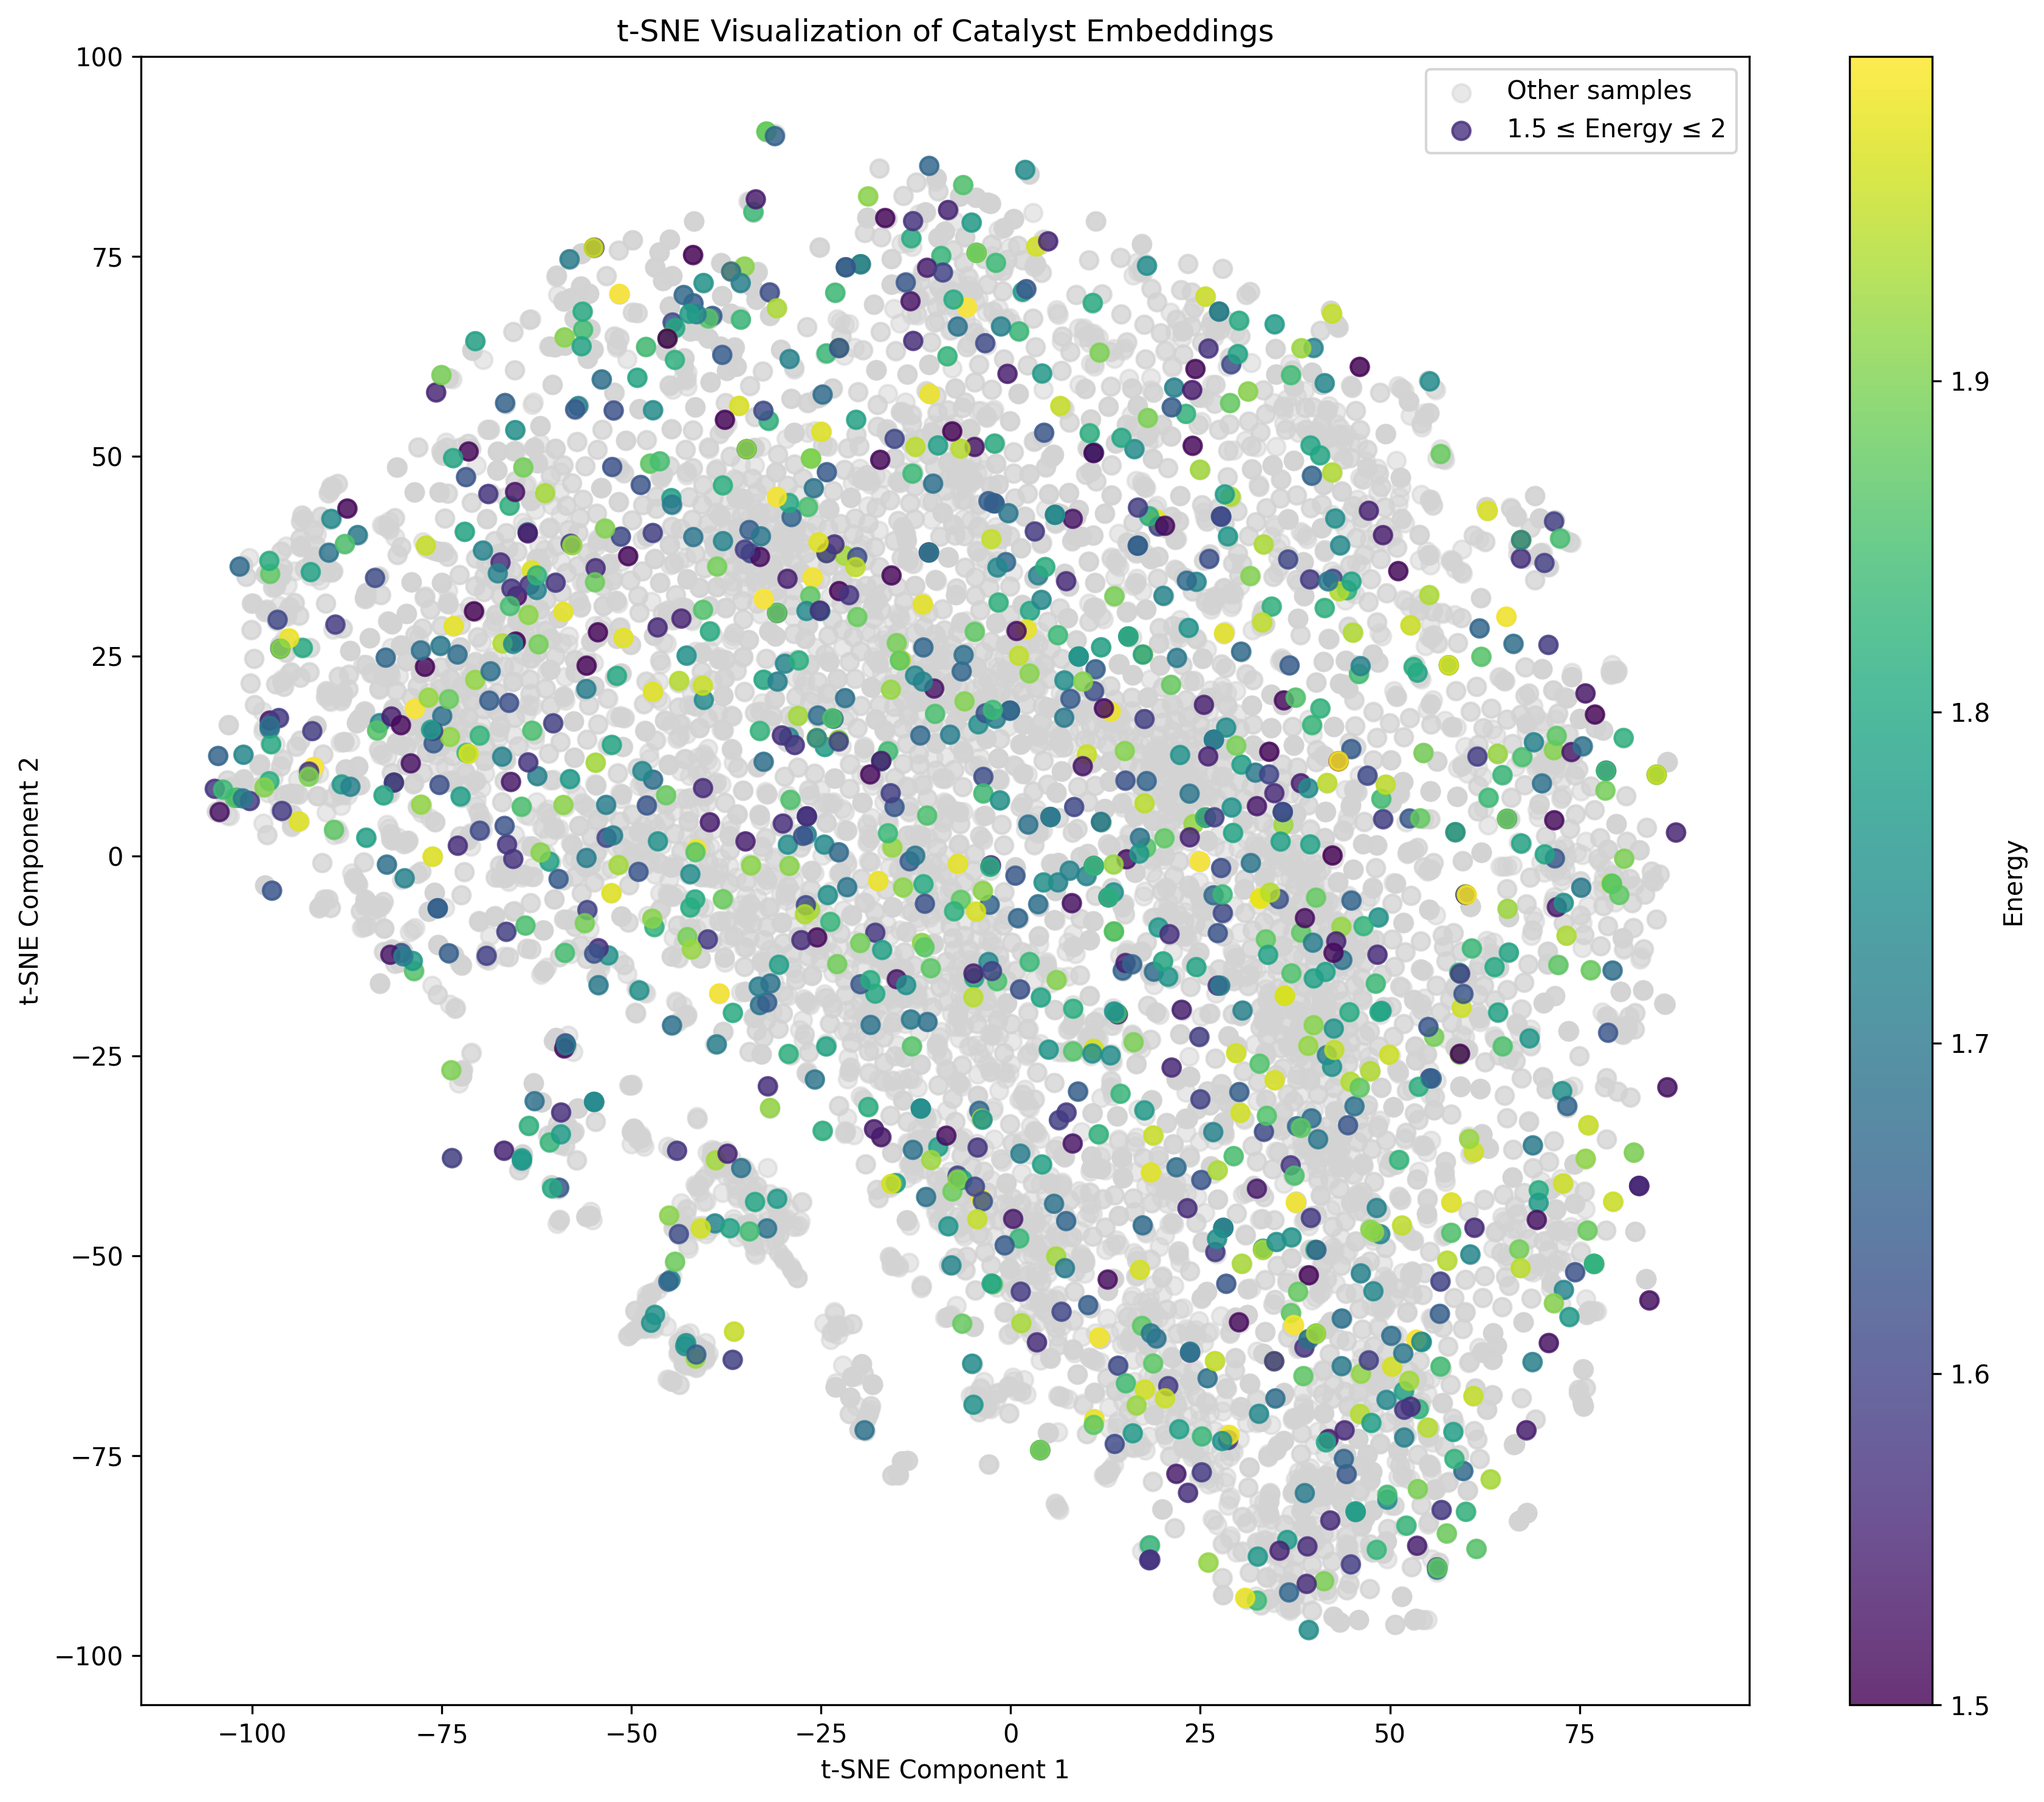
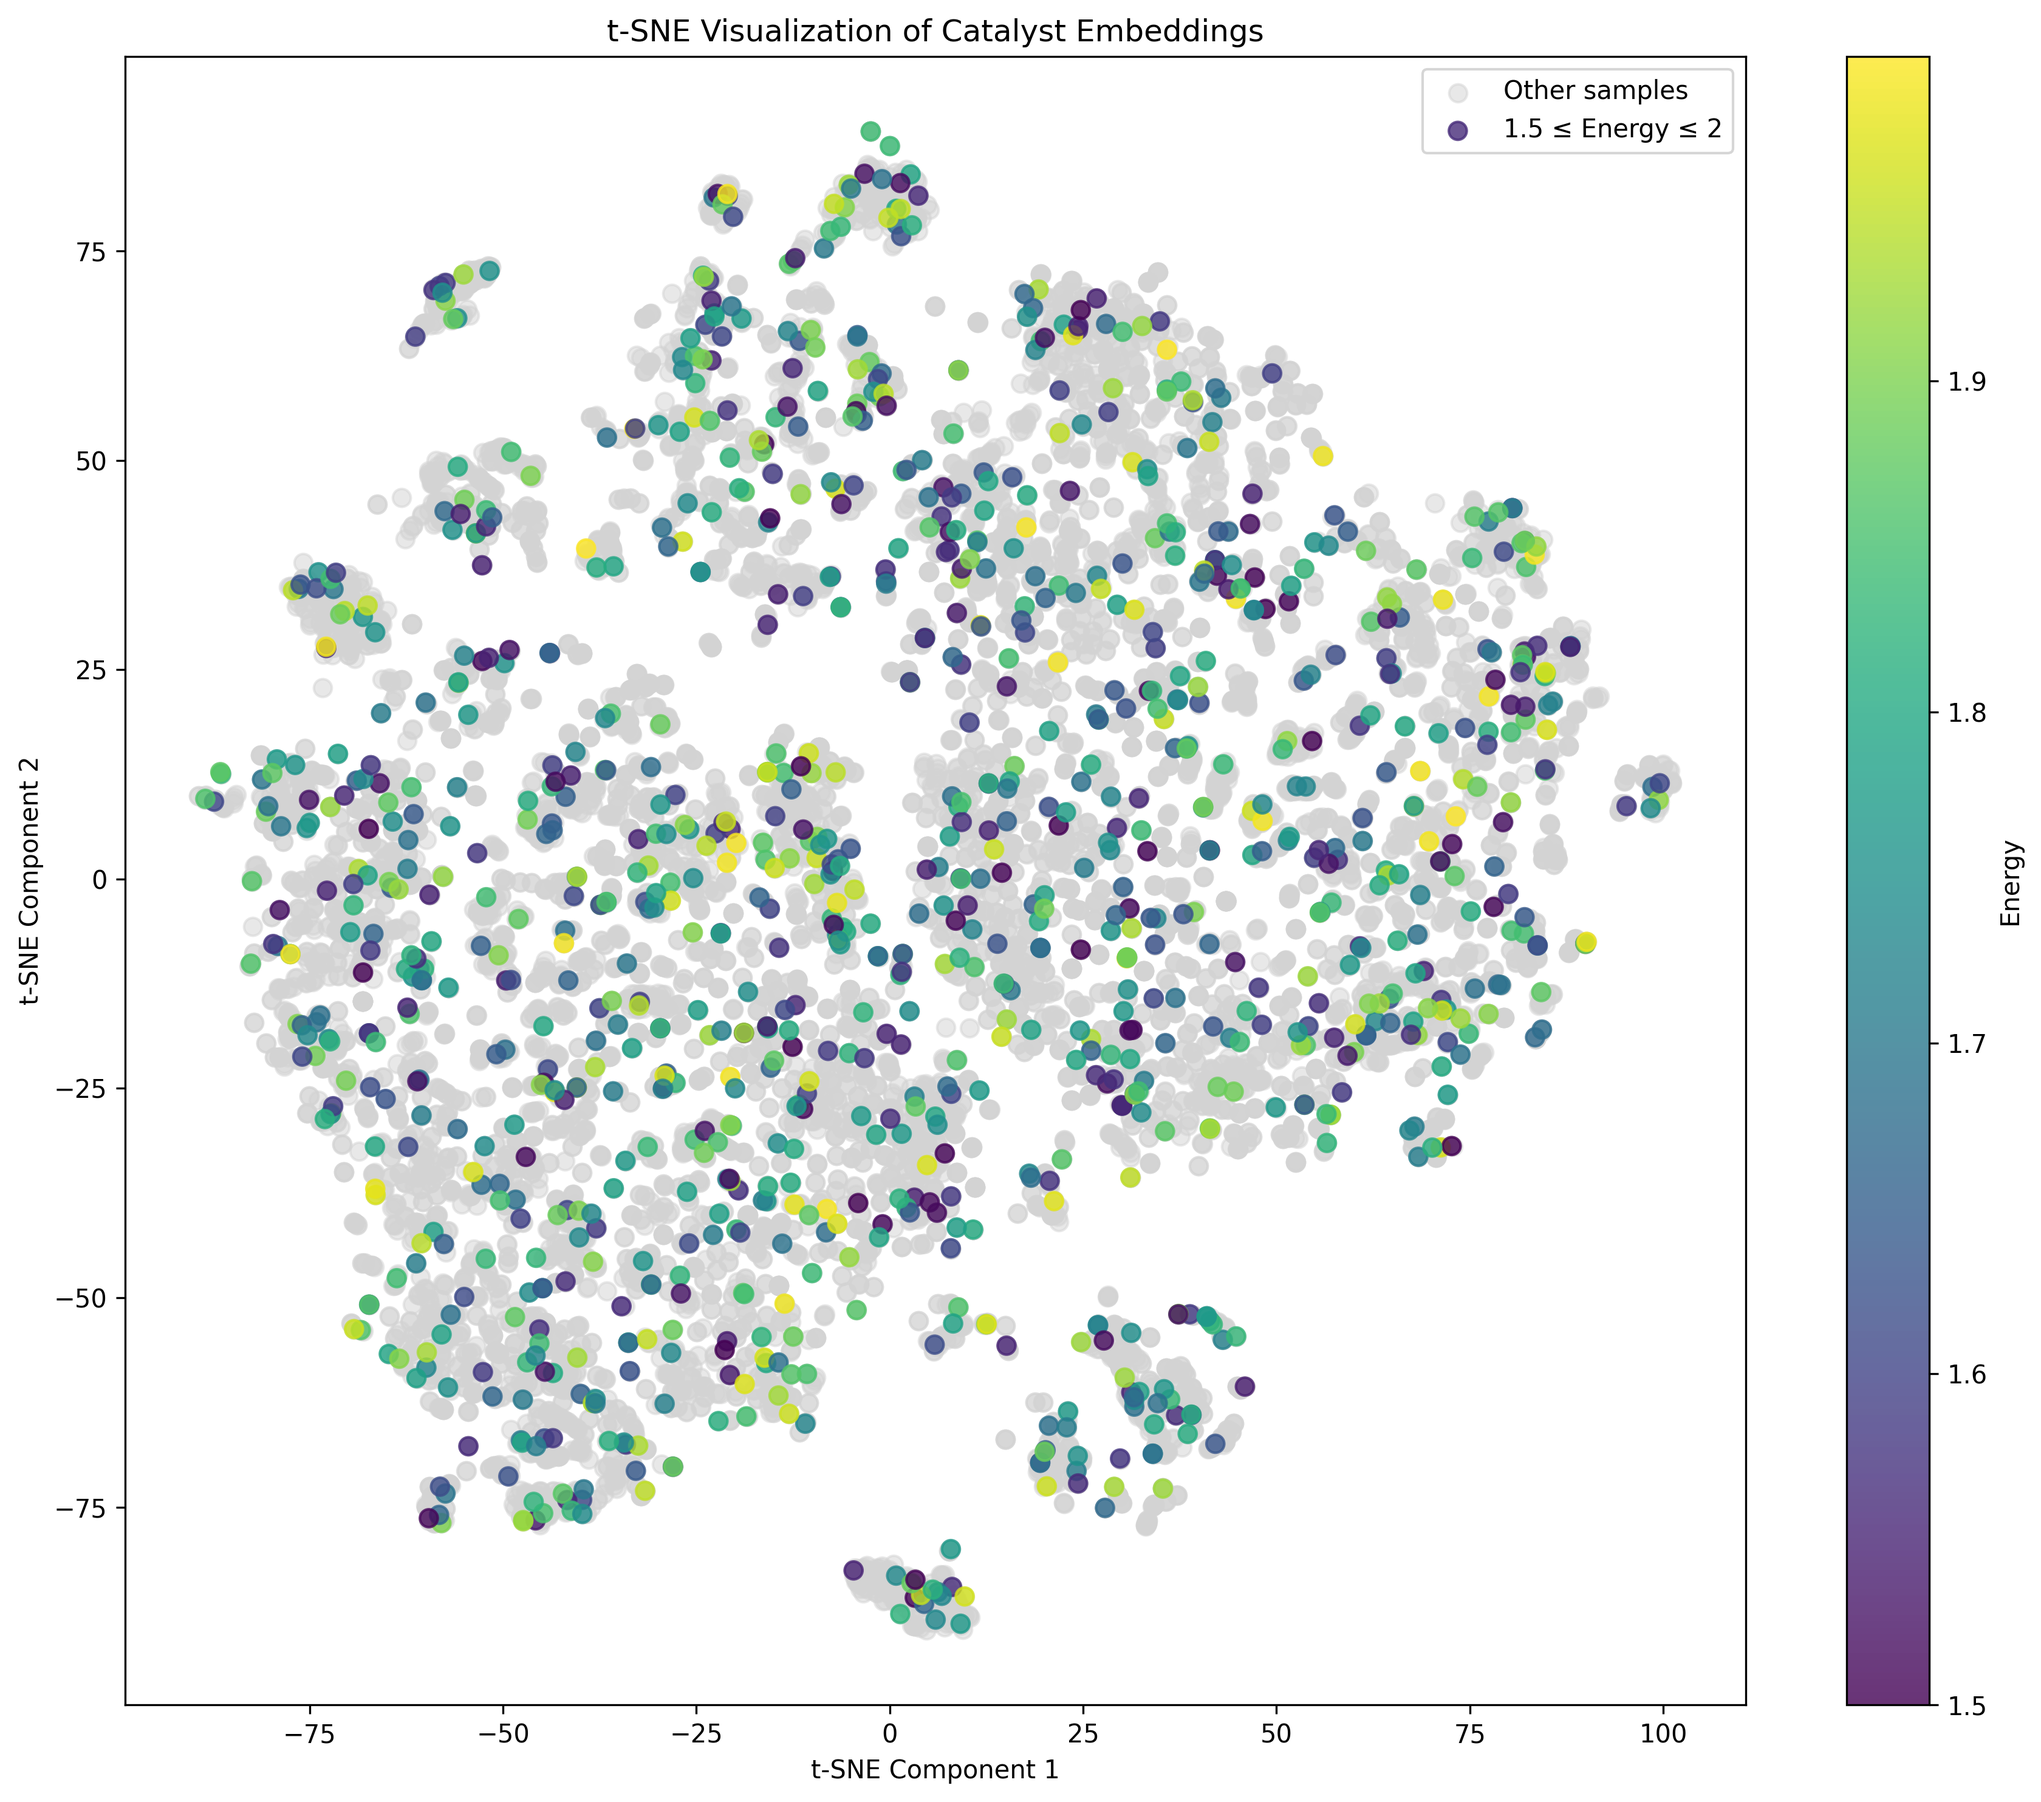
Add files via upload

diff --git a/analysis_latent.py b/analysis_latent.py
@@ -4,7 +4,7 @@ from sklearn.decomposition import PCA
 from sklearn.manifold import TSNE
 import seaborn as sns
 
-def visualize_embeddings(latents, energy, method='pca', perplexity=30, n_components=2, figsize=(12, 10), highlight_range=False):
+def visualize_embeddings(latents, energy, method='pca', perplexity=50, n_components=2, figsize=(12, 10), highlight_range=False):
     """
     Visualize high-dimensional embeddings with energy values as colors.
     
@@ -292,6 +292,54 @@ def create_tsne_comparison(latents, energy, highlight_range=False):
     
     return fig
 
+def frequency_aware_pooling(embeddings: np.ndarray) -> np.ndarray:
+    """
+    Pool embeddings with awareness of frequency bands using weighted averaging.
+    Handles batched input embeddings.
+    
+    Args:
+        embeddings (np.ndarray): Input embedding array of shape (N, 25, 128) where:
+            - N is the number of samples
+            - 25 channels contain frequency band information organized as [0e, 1o, 2e, 3o, 4e]
+            - 128 is the embedding dimension
+            The channels are distributed as [1, 3, 5, 7, 9] channels per band.
+        
+    Returns:
+        np.ndarray: Normalized global embeddings of shape (N, 128)
+        
+    Raises:
+        ValueError: If embedding shape is incorrect or doesn't match expected dimensions
+    """
+    # Input validation
+    if not isinstance(embeddings, np.ndarray):
+        raise ValueError("Input must be a numpy array")
+    if len(embeddings.shape) != 3 or embeddings.shape[1:] != (25, 128):
+        raise ValueError(f"Expected shape (N, 25, 128), got {embeddings.shape}")
+    
+    # Define channel sizes for each frequency band
+    channel_sizes = [1, 3, 5, 7, 9]  # 0e, 1o, 2e, 3o, 4e
+    if sum(channel_sizes) != embeddings.shape[1]:
+        raise ValueError("Channel sizes don't match input dimensions")
+    
+    # Initialize output array
+    batch_size = embeddings.shape[0]
+    global_embeddings = np.zeros((batch_size, embeddings.shape[2]), dtype=embeddings.dtype)
+    
+    # Process each frequency band with weighted averaging
+    channel_idx = 0
+    for size in channel_sizes:
+        end_idx = channel_idx + size
+        band_channels = embeddings[:, channel_idx:end_idx]
+        # Use weighted average based on band size
+        global_embeddings += np.mean(band_channels, axis=1) / len(channel_sizes)
+        channel_idx = end_idx
+    
+    # Normalize each embedding (with epsilon to prevent division by zero)
+    norms = np.linalg.norm(global_embeddings, axis=1, keepdims=True)
+    global_embeddings = np.where(norms > 1e-12, global_embeddings / norms, global_embeddings)
+    
+    return global_embeddings
+
 # Example usage with iterations
 modes = [128]
 highlight_options = [True]
@@ -301,38 +349,34 @@ for mode in modes:
     if mode == 25:
         filename = 'save_logs/9066/s2ef_predictions.npz'
     elif mode == 128:
-        # 31M
-        # filename = 'save_logs/9068/s2ef_predictions.npz'
-        # 153M
-        filename = 'save_logs/2283214/s2ef_predictions.npz'
+        filename = 'save_logs/2287813/s2ef_predictions.npz'
     
     # Load and reshape data
     data = np.load(filename)
-    latents = data['latents'].reshape(-1, mode)
+    latents = data['latents'].reshape(-1, 25, 128)
     energy = data['energy'].reshape(-1, 1)
     print(f"Processing mode {mode}, shape: {latents.shape}, {energy.shape}")
+    
+    # Pool the embeddings first
+    pooled_embeddings = frequency_aware_pooling(latents)  # shape: (N, 128)
     
     for highlight in highlight_options:
         highlight_str = "highlighted" if highlight else "all"
         print(f"  Creating visualizations with highlight={highlight}")
         
-        # # Create and save all visualizations
-        # fig1 = visualize_embeddings(latents, energy, method='pca', highlight_range=highlight)
-        # fig1.savefig(f'visuals/{mode}/catalyst_pca_{highlight_str}.png', dpi=300, bbox_inches='tight')
-        # plt.close(fig1)
-        
-        # fig2 = visualize_embeddings(latents, energy, method='tsne', highlight_range=highlight)
-        # fig2.savefig(f'visuals/{mode}/catalyst_tsne_{highlight_str}.png', dpi=300, bbox_inches='tight')
-        # plt.close(fig2)
+        # Use pooled_embeddings instead of latents for visualization
+        fig2 = visualize_embeddings(pooled_embeddings, energy, method='tsne', highlight_range=highlight)
+        fig2.savefig(f'visuals/{mode}/catalyst_tsne_{highlight_str}.png', dpi=300, bbox_inches='tight')
+        plt.close(fig2)
         
         # fig3 = create_multiple_visualizations(latents, energy, highlight_range=highlight)
         # fig3.savefig(f'visuals/{mode}/catalyst_multiple_{highlight_str}.png', dpi=300, bbox_inches='tight')
         # plt.close(fig3)
         
-        # Create and save t-SNE comparison
-        fig5 = create_tsne_comparison(latents, energy, highlight_range=highlight)
-        fig5.savefig(f'visuals/{mode}/catalyst_tsne_comparison_{highlight_str}.png', dpi=300, bbox_inches='tight')
-        plt.close(fig5)
+        # # Create and save t-SNE comparison
+        # fig5 = create_tsne_comparison(latents, energy, highlight_range=highlight)
+        # fig5.savefig(f'visuals/{mode}/catalyst_tsne_comparison_{highlight_str}.png', dpi=300, bbox_inches='tight')
+        # plt.close(fig5)
     
     # # Create cluster analysis (only once per mode as it doesn't use highlighting)
     # fig4 = analyze_embedding_clusters(latents, energy)
